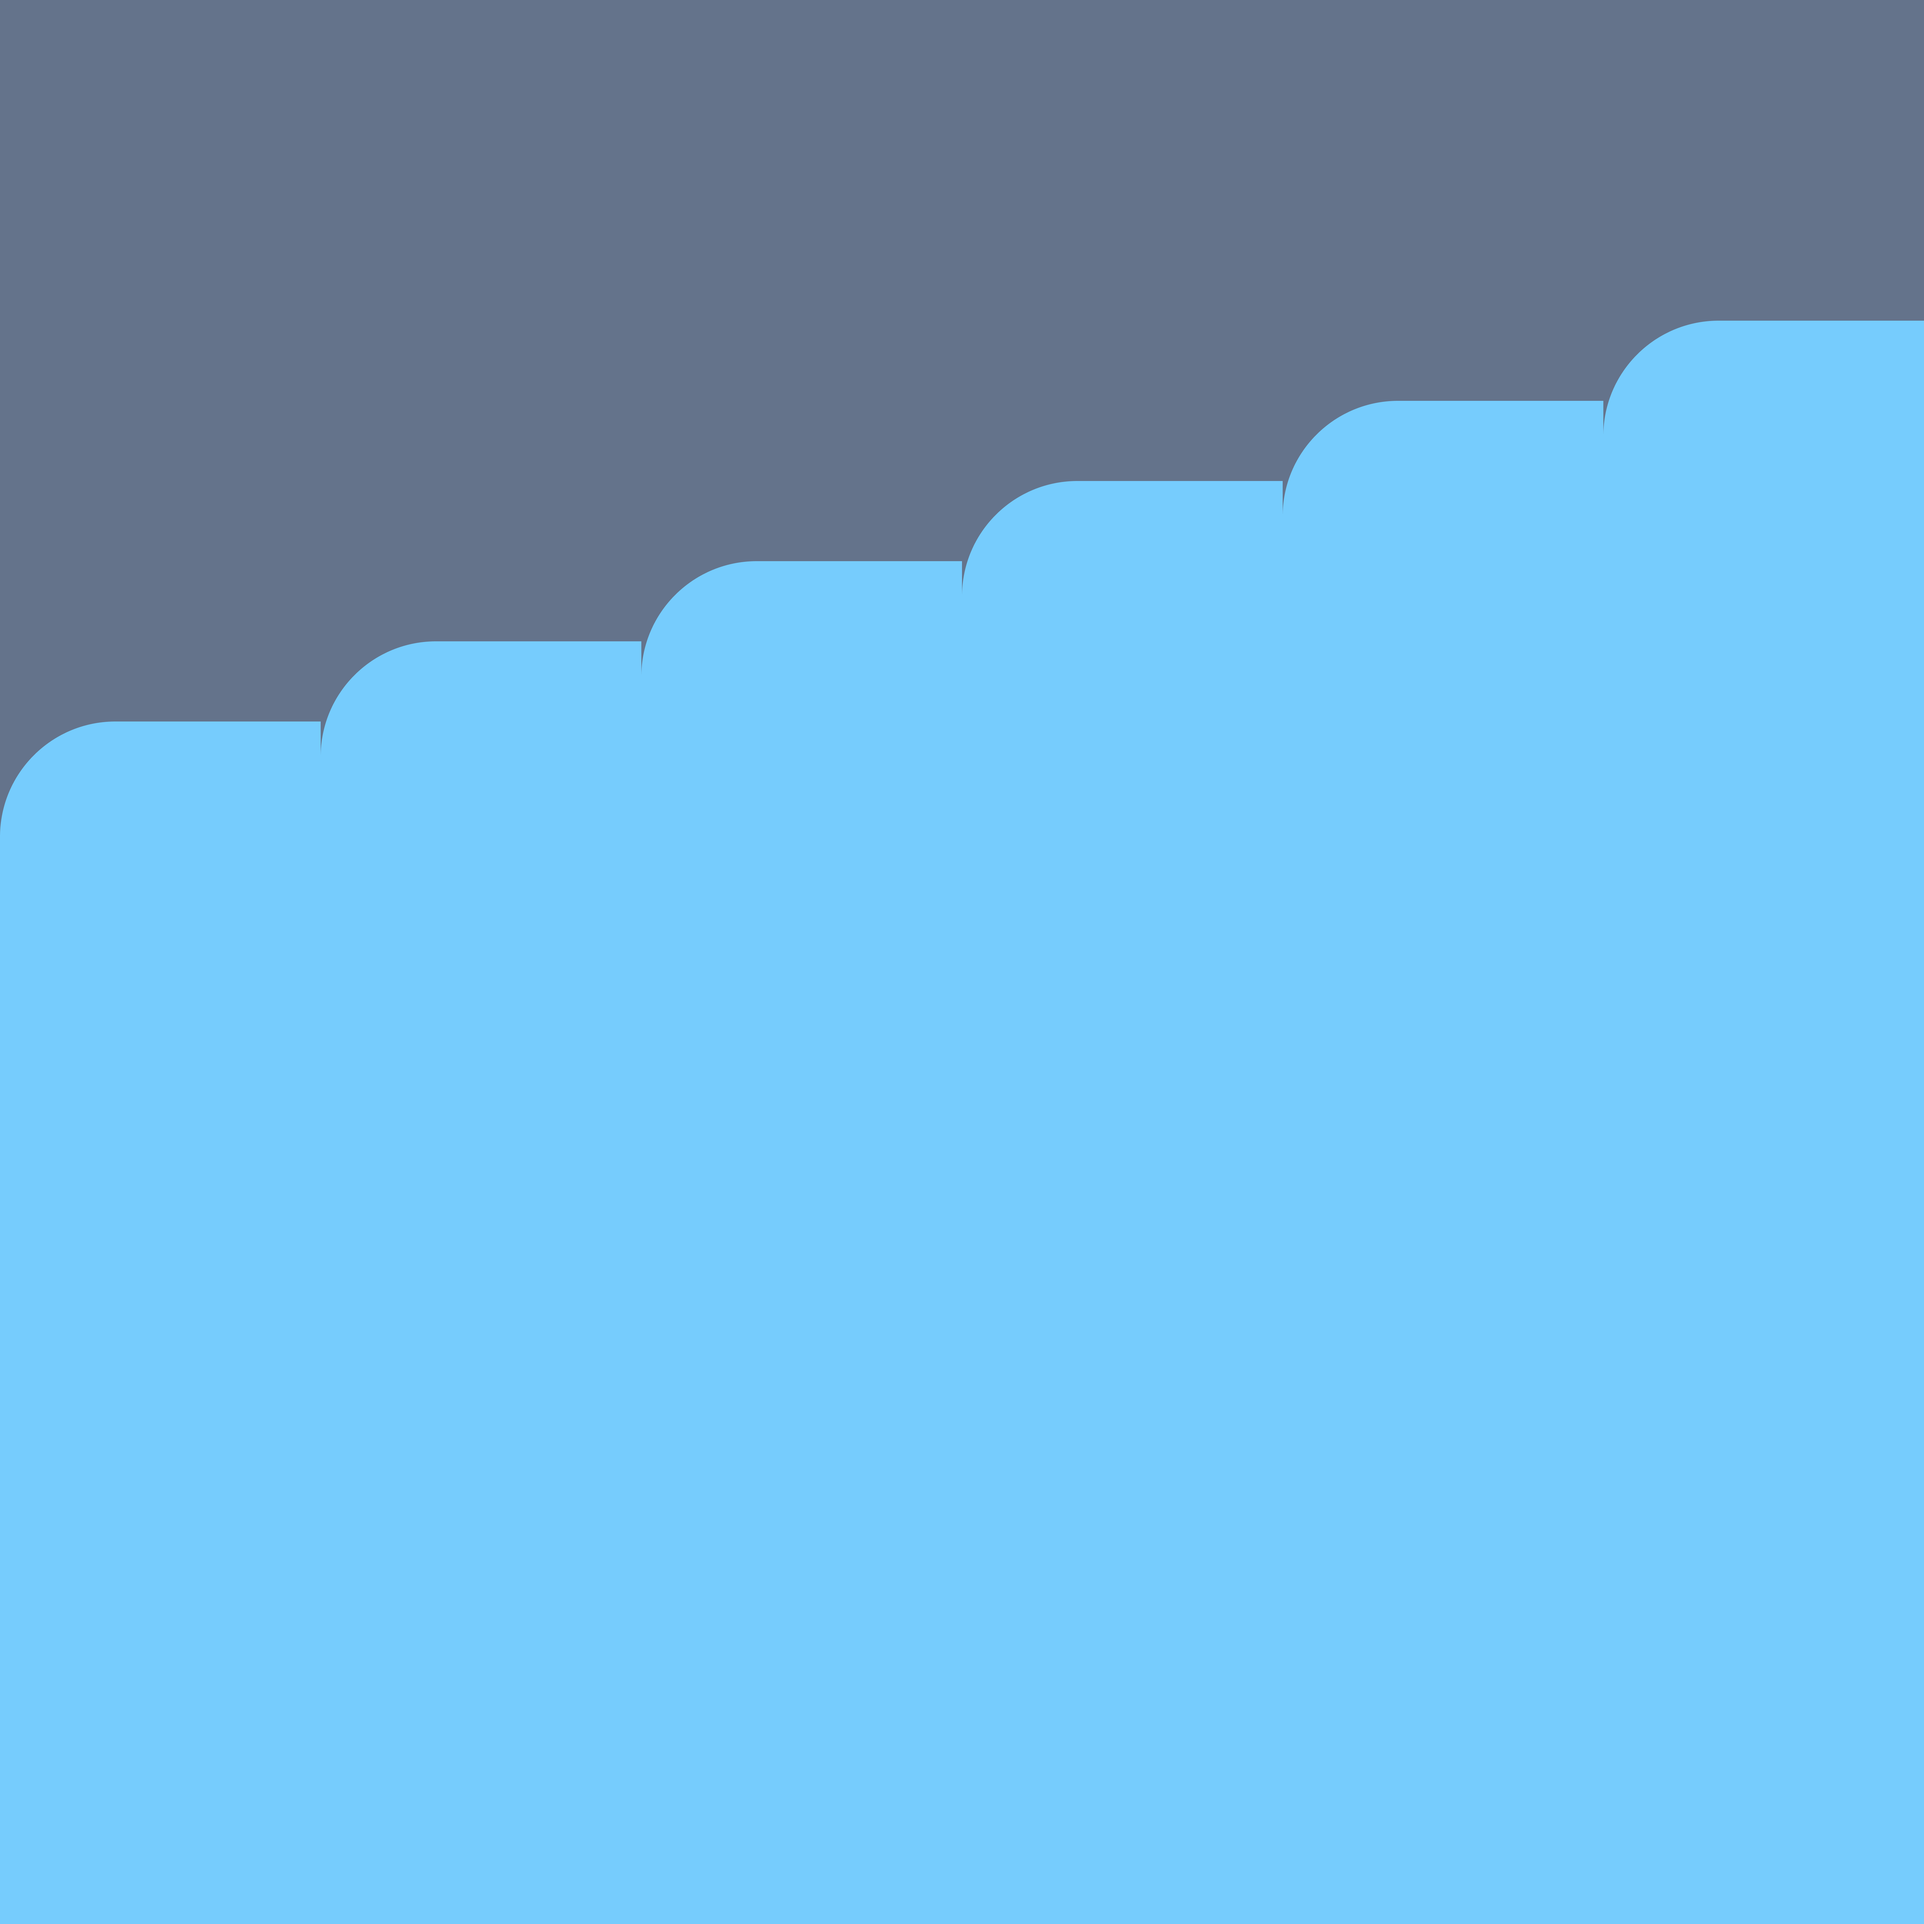
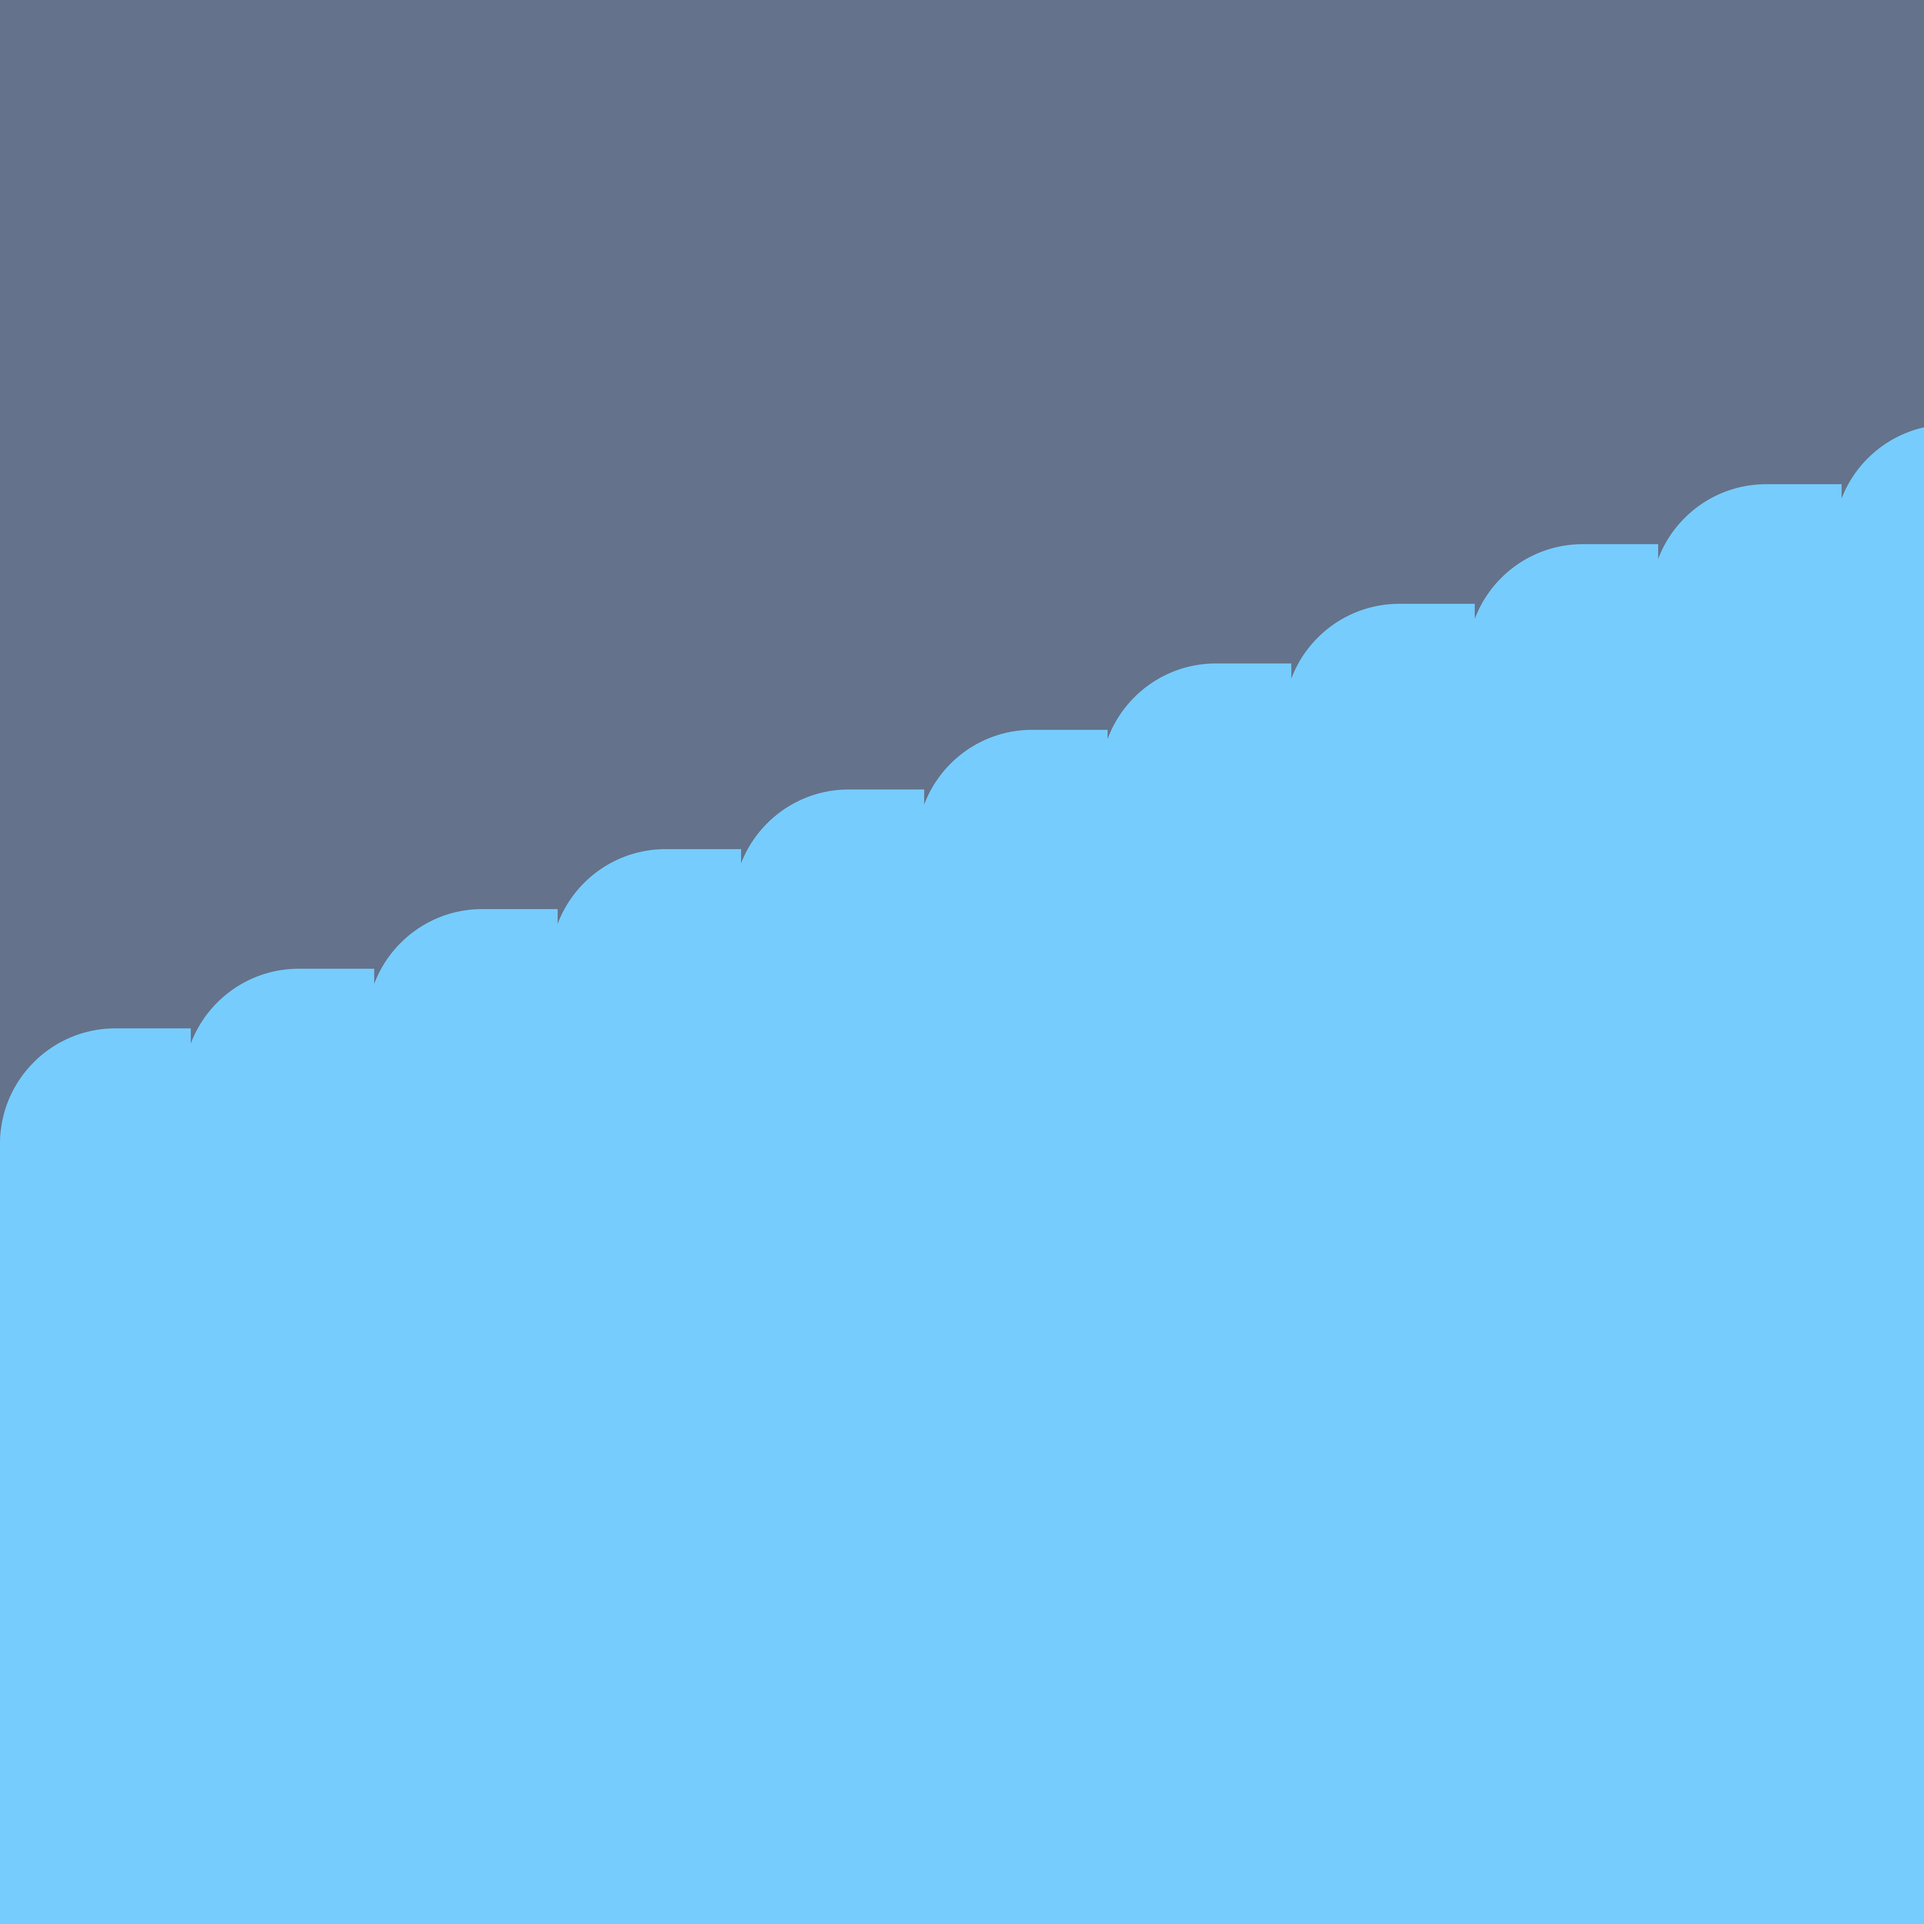
Condense width of waves

Changed region(s): [[0.0, 0.1558, 1.0, 0.5922]]

diff --git a/content/about.md b/content/about.md
@@ -4,6 +4,6 @@ title: "About"
 
 Enough Advisory helps small service businesses overcome barriers to growth.
 
-Founded by Catherine Cusick, EA in Austin, Texas, Enough Advisory combines professional tax credentials and emotional intelligence to help self-employed people conquer tax anxiety, run revenue-generating experiments, engage new audiences, and challenge limiting beliefs. 
+Founded by Catherine Cusick, EA in Austin, Texas, Enough Advisory combines professional tax credentials and emotional intelligence to help self-employed people conquer tax anxiety, run revenue-generating experiments, engage new audiences, and challenge limiting beliefs. The goal is to define enough, do enough, and make enough.
 
 If you've hit a limit as a solopreneur — financial, psychological, emotional, or all three — you're not alone. [Share a little bit about your tax story here](https://www.selfemployedfaq.com/consulting) to get started.

diff --git a/content/_index.md b/content/_index.md
@@ -2,7 +2,8 @@
 title: "You're in the right place"
 description: "Building processes and preserving sanity"
 ---
-<h2>Solutions for
+## Solutions for
+
 {{< typeit 
   tag=h3
   speed=90
@@ -10,9 +11,8 @@ description: "Building processes and preserving sanity"
   startDelay=1
   breakLines=false
   loop=true
->}}tax anxiety
-small business overwhelm
+>}}small business overwhelm
+tax anxiety
 newcomers to self-employment
 solopreneurs who feel stuck
-
 {{< /typeit >}}
